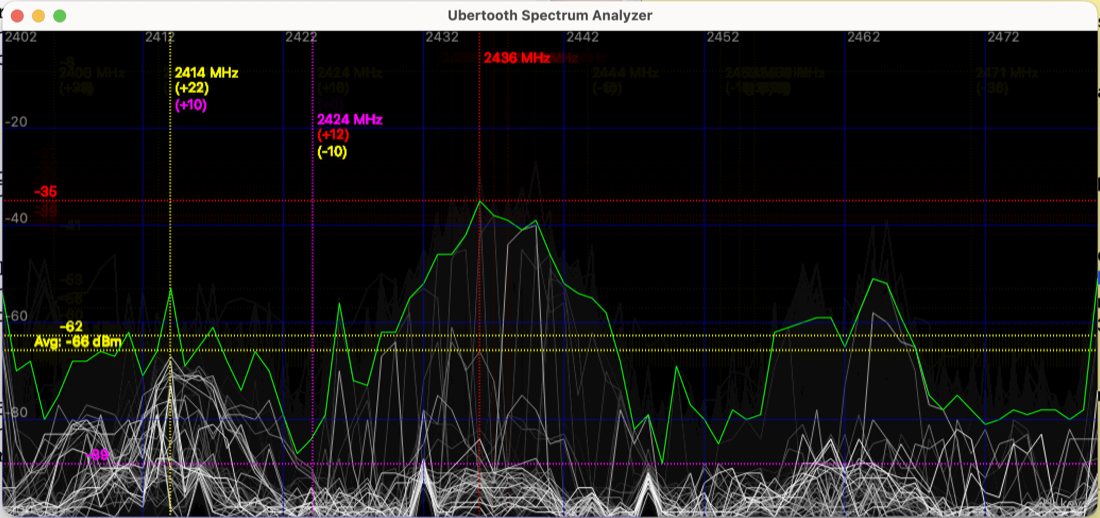
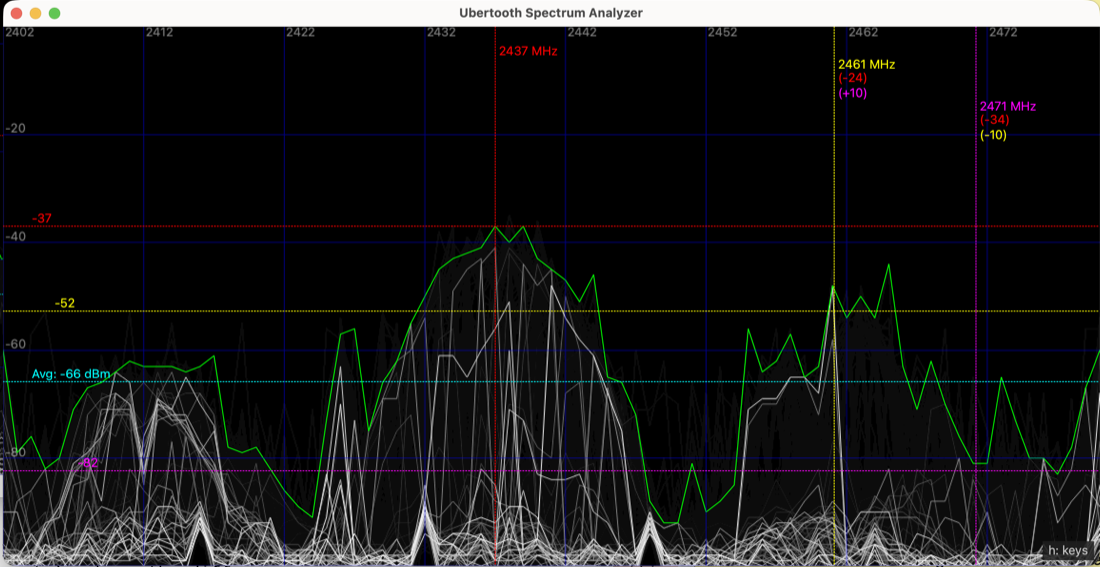
docs: current specan-ui screenshots (markers, key help)

Changed region(s): [[0.0, 0.0, 1.0, 1.0]]

diff --git a/docs/source/specan_ui.rst b/docs/source/specan_ui.rst
@@ -82,6 +82,9 @@ Keys and mouse
 Press ``h`` in the window to show this list on screen (a small ``h: keys``
 hint is always shown in the corner). Keys work in upper or lower case.
 
+.. image:: ../images/specan_ui_help.png
+   :alt: ubertooth-specan-ui with the key help shown in the lower right
+
 There are two mouse markers, one per button; clicking again moves that marker.
 With both set, the frequency differences between them and to the peak are
 shown. On a Mac trackpad, right click is a two-finger click or Control-click.
